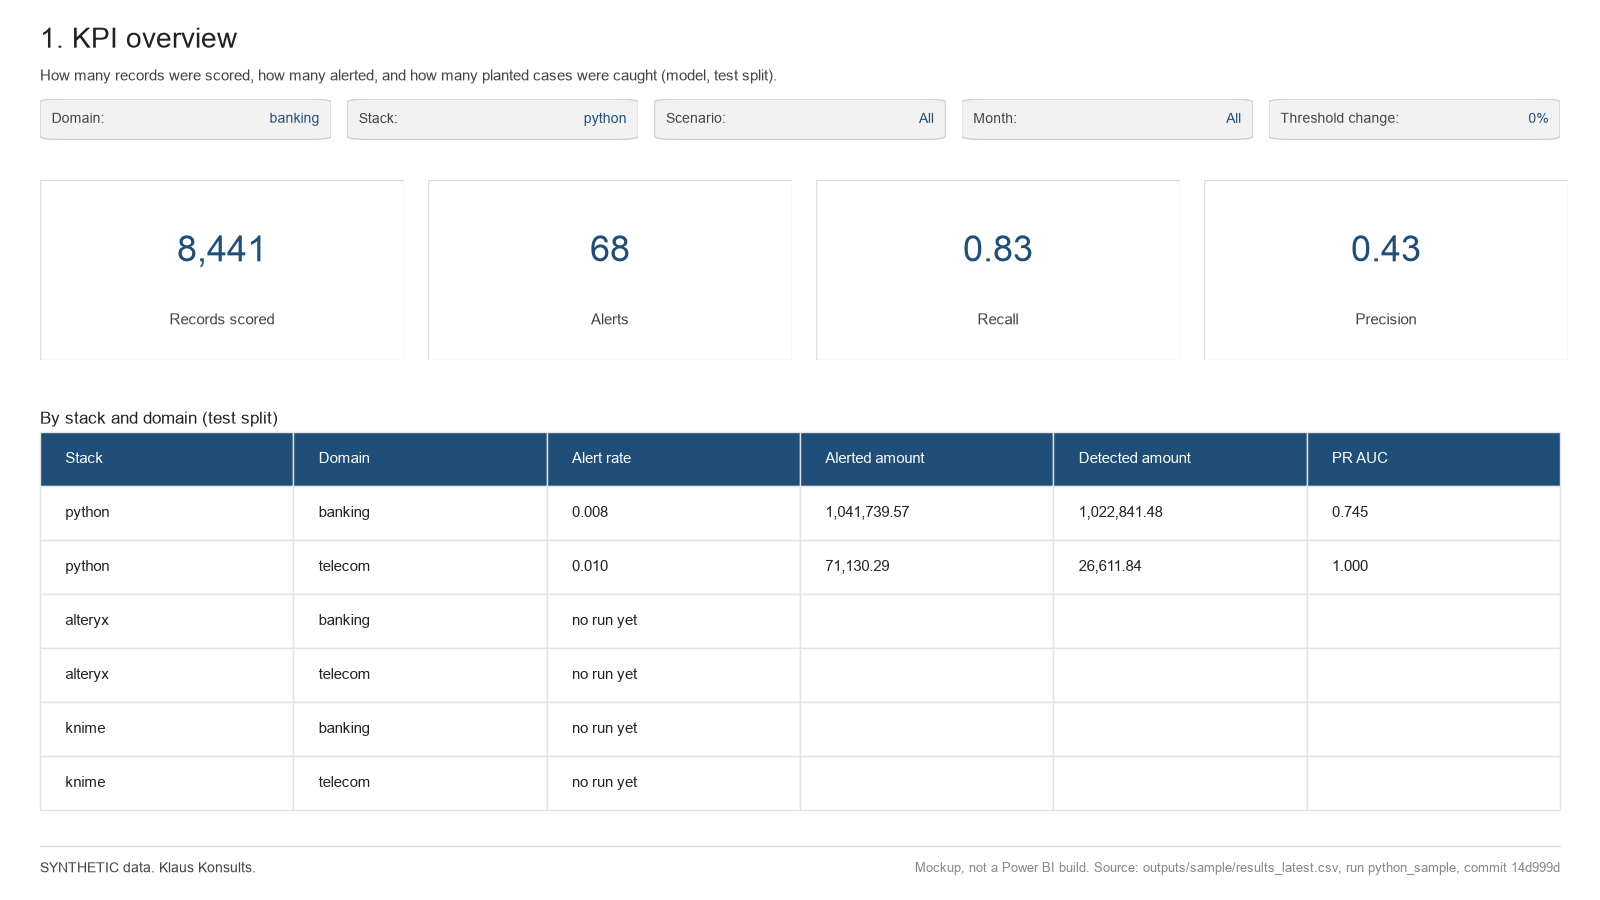
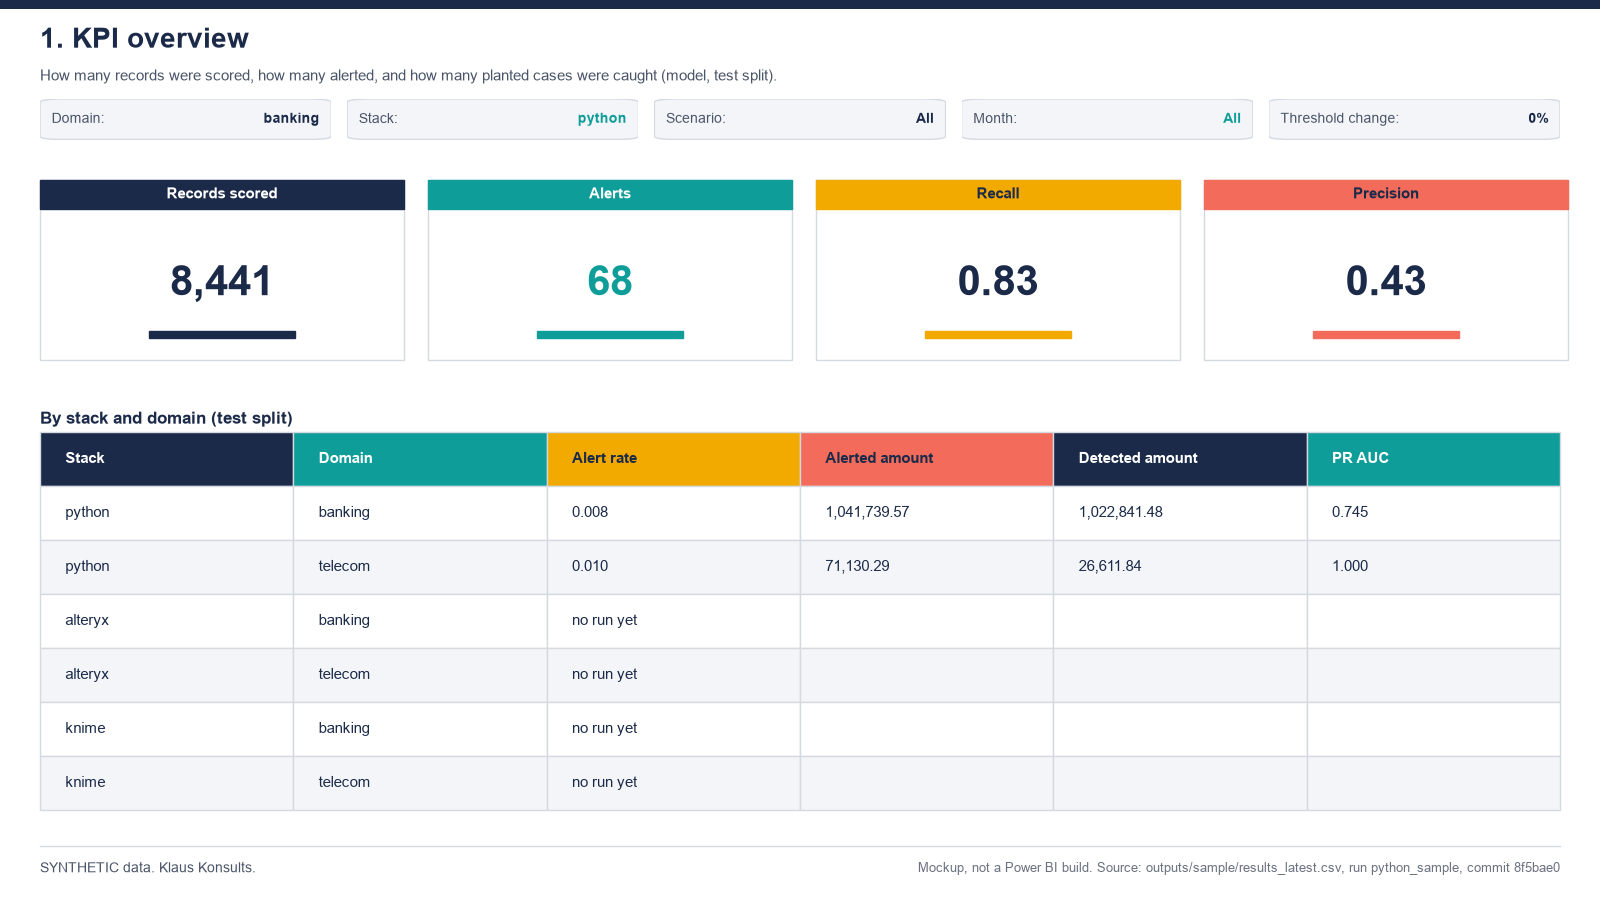
Theme D (navy, teal, amber, coral, Arial) on all 12 mockups, Power BI theme JSON, design doc; themes A to F archived (Klaus Konsults)

diff --git a/docs/powerbi_mockups/render_mockups.py b/docs/powerbi_mockups/render_mockups.py
@@ -23,12 +23,16 @@ ROOT = Path(__file__).resolve().parents[2]
 OUT = Path(__file__).resolve().parent
 SRC = ROOT / "outputs/sample/results_latest.csv"
 
-# Theme from docs/powerbi_design.md
-LIGHT = ["#9DC3E6", "#F4B183", "#A9D18E", "#D9D9D9", "#BDD7EE", "#FFE699", "#595959"]
-C = dict(data=["#1F4E79", "#C55A11", "#548235", "#7F7F7F", "#2E75B6", "#BF9000", "#A5A5A5", "#70AD47"],
-         fg="#222222", label="#444444", accent="#1F4E79", good="#548235", neutral="#BF9000", bad="#C00000",
-         center="#F2F2F2", bg="#FFFFFF")
-STACK = {"python": "#1F4E79", "alteryx": "#C55A11", "knime": "#548235"}
+# Theme D from docs/powerbi_design.md (chosen by Klaus Konsults): navy, teal, amber, coral on white, Arial
+NAVY, TEAL, AMBER, CORAL = "#1B2A49", "#0F9D9A", "#F2A900", "#F26B5B"
+PAL = [(NAVY, "#FFFFFF"), (TEAL, "#FFFFFF"), (AMBER, NAVY), (CORAL, NAVY)]  # (fill, text on it): amber and coral get navy text
+DARK = [NAVY, TEAL]
+LIGHT = ["#8B95AA", "#87CECC", "#F8D47F", "#F8B5AD", "#D5DAE1", "#C3E6E5", "#6B7280"]
+C = dict(data=[NAVY, TEAL, AMBER, CORAL, "#4A5D85", "#5CC2BF", "#B07B00", "#B8483B"],
+         fg=NAVY, label="#4A5568", accent=NAVY, good=TEAL, neutral=AMBER, bad="#C8473A",
+         center="#F3F5F8", bg="#FFFFFF", border="#D5DAE1", muted="#6B7280")
+STACK = {"python": NAVY, "alteryx": TEAL, "knime": CORAL}
+SLI = [0]
 
 FONT = "Arial" if any("Arial" == f.name for f in font_manager.fontManager.ttflist) else "Liberation Sans"
 plt.rcParams.update({"font.family": FONT, "font.size": 10, "text.color": C["fg"], "axes.edgecolor": "#BBBBBB",
@@ -48,21 +52,22 @@ T = lambda t: r[r["record_type"] == t]
 
 def page(num, title, note, slicers):
     fig = plt.figure(figsize=(16, 9), dpi=100, facecolor=C["bg"])
-    fig.text(0.025, 0.955, f"{num}. {title}", fontsize=20, color=C["fg"], va="center")
+    fig.add_artist(Rectangle((0, 0.99), 1, 0.01, transform=fig.transFigure, fc=NAVY, ec="none"))
+    fig.text(0.025, 0.955, f"{num}. {title}", fontsize=20, fontweight="bold", color=C["fg"], va="center")
     fig.text(0.025, 0.915, note, fontsize=11, color=C["label"], va="center")
     x = 0.025
     w = (0.95 - 0.01 * 4) / 5
     for name, val in slicers:
         ax = fig.add_axes([x, 0.845, w, 0.045]); ax.axis("off")
         ax.add_patch(FancyBboxPatch((0, 0), 1, 1, boxstyle="round,pad=0,rounding_size=0.08",
-                                    fc=C["center"], ec="#D0D0D0", transform=ax.transAxes))
+                                    fc=C["center"], ec=C["border"], transform=ax.transAxes))
         ax.text(0.04, 0.5, f"{name}:", fontsize=10, color=C["label"], va="center", transform=ax.transAxes)
-        ax.text(0.96, 0.5, val, fontsize=10, color=C["accent"], va="center", ha="right", transform=ax.transAxes)
-        x += w + 0.01
-    fig.add_artist(plt.Line2D([0.025, 0.975], [0.06, 0.06], color="#DDDDDD", lw=1))
+        ax.text(0.96, 0.5, val, fontsize=10, fontweight="bold", color=DARK[SLI[0] % len(DARK)], va="center", ha="right", transform=ax.transAxes)
+        x += w + 0.01; SLI[0] += 1
+    fig.add_artist(plt.Line2D([0.025, 0.975], [0.06, 0.06], color=C["border"], lw=1))
     fig.text(0.025, 0.035, "SYNTHETIC data. Klaus Konsults.", fontsize=10, color=C["label"], va="center")
     fig.text(0.975, 0.035, f"Mockup, not a Power BI build. Source: outputs/sample/results_latest.csv, run {RUN}, commit {COMMIT}",
-             fontsize=9, color="#888888", va="center", ha="right")
+             fontsize=9, color=C["muted"], va="center", ha="right")
     return fig
 
 
@@ -70,24 +75,30 @@ def slic(domain="banking", stack="python", scen="All", month="All", thr="0%"):
     return [("Domain", domain), ("Stack", stack), ("Scenario", scen), ("Month", month), ("Threshold change", thr)]
 
 
-def card(fig, rect, label, value):
+def card(fig, rect, label, value, i=[0]):
+    """Each KPI card gets its own palette colour: a coloured band with the label, the value below it."""
+    col, tc = PAL[i[0] % len(PAL)]; i[0] += 1
     ax = fig.add_axes(rect); ax.axis("off")
-    ax.add_patch(Rectangle((0, 0), 1, 1, fc=C["bg"], ec="#DDDDDD", transform=ax.transAxes))
-    ax.text(0.5, 0.6, value, fontsize=26, color=C["accent"], ha="center", va="center", transform=ax.transAxes)
-    ax.text(0.5, 0.22, label, fontsize=11, color=C["label"], ha="center", va="center", transform=ax.transAxes)
+    ax.add_patch(Rectangle((0, 0), 1, 1, fc="#FFFFFF", ec=C["border"], transform=ax.transAxes, clip_on=False))
+    ax.add_patch(Rectangle((0, 0.84), 1, 0.16, fc=col, ec=col, transform=ax.transAxes, clip_on=False))
+    ax.text(0.5, 0.92, label, fontsize=11, color=tc, ha="center", va="center", fontweight="bold", transform=ax.transAxes)
+    ax.text(0.5, 0.42, value, fontsize=30, color=col if tc == "#FFFFFF" else C["fg"], ha="center", va="center", fontweight="bold", transform=ax.transAxes)
+    ax.add_patch(Rectangle((0.3, 0.12), 0.4, 0.04, fc=col, ec=col, transform=ax.transAxes))
 
 
 def table(fig, rect, df, title=None, colw=None, fs=10, red=None):
     ax = fig.add_axes(rect); ax.axis("off")
     if title:
-        ax.set_title(title, loc="left", fontsize=12, pad=6)
+        ax.set_title(title, loc="left", fontsize=12, pad=6, fontweight="bold", color=NAVY)
     t = ax.table(cellText=df.values, colLabels=list(df.columns), loc="upper left", cellLoc="left", colLoc="left",
                  colWidths=colw, bbox=[0, 0, 1, 1])
     t.auto_set_font_size(False); t.set_fontsize(fs)
     for (i, j), c in t.get_celld().items():
-        c.set_edgecolor("#E3E3E3"); c.get_text().set_fontfamily(FONT)
-        if i == 0:
-            c.set_facecolor(C["accent"]); c.get_text().set_color("white")
+        c.set_edgecolor(C["border"]); c.get_text().set_fontfamily(FONT)
+        if i > 0:
+            c.set_facecolor(C["center"] if i % 2 == 0 else "#FFFFFF")
+        if i == 0:  # headers cycle through the palette
+            c.set_facecolor(PAL[j % len(PAL)][0]); c.get_text().set_color(PAL[j % len(PAL)][1]); c.get_text().set_fontweight("bold")
         elif red is not None and red(i - 1):
             c.get_text().set_color(C["bad"])
     return ax
@@ -142,7 +153,7 @@ xr = M[(M.model == MODEL) & (M.metric == "recall") & (M.domain == "banking") & (
 scen = sorted(rr.index)
 mat = np.array([[rr.get(s, np.nan), xr.get(s, np.nan), np.nan, np.nan] for s in scen])
 ax = fig.add_axes([0.25, 0.1, 0.62, 0.7])
-cm = matplotlib.colors.LinearSegmentedColormap.from_list("kk", ["#FFFFFF", C["accent"]])
+cm = matplotlib.colors.LinearSegmentedColormap.from_list("kk", ["#FFFFFF", TEAL, NAVY])
 ax.imshow(np.nan_to_num(mat, nan=0), cmap=cm, vmin=0, vmax=1, aspect="auto")
 for i in range(len(scen)):
     for j in range(4):
@@ -216,7 +227,7 @@ if len(eb):
         G.add_edge(e.source_id, e.target_id, w=e.edge_weight)
     pos = nx.spring_layout(G, seed=42, k=0.35)
     ws = np.array([G[u][v]["w"] for u, v in G.edges()])
-    nx.draw_networkx_edges(G, pos, ax=ax, width=0.5 + 3 * ws / ws.max(), edge_color="#9DB3C9", arrows=False)
+    nx.draw_networkx_edges(G, pos, ax=ax, width=0.5 + 3 * ws / ws.max(), edge_color="#87CECC", arrows=False)
     src = {u for u, _ in G.edges()}
     nx.draw_networkx_nodes(G, pos, ax=ax, node_size=28, node_color=[C["accent"] if n in src else C["data"][3] for n in G.nodes()])
     ax.set_title(f"Banking account network: {len(eb)} edges from the results file (sending accounts in blue)", fontsize=12)

diff --git a/docs/powerbi_design.md b/docs/powerbi_design.md
@@ -180,40 +180,60 @@ Pages 10 and 11 ignore the scenario slicer, because DQ and runtime rows have no 
 
 ## Theme
 
-Plain English and calm: Arial throughout, sentence case titles, dark text on white, one accent colour per stack so the three tools read the same on every page.
+Theme D, chosen by Klaus Konsults: navy #1B2A49, teal #0F9D9A, amber #F2A900 and coral #F26B5B on a white background, Arial throughout, sentence case titles. The theme file to import in Power BI Desktop (View, Themes, Browse for themes) is powerbi/klaus_konsults_theme_d.json:
 
 ```json
 {
-  "name": "Klaus Konsults Plain",
-  "dataColors": ["#1F4E79", "#C55A11", "#548235", "#7F7F7F", "#2E75B6", "#BF9000", "#A5A5A5", "#70AD47"],
+  "name": "Klaus Konsults Theme D",
+  "dataColors": ["#1B2A49", "#0F9D9A", "#F2A900", "#F26B5B", "#4A5D85", "#5CC2BF", "#B07B00", "#B8483B"],
   "background": "#FFFFFF",
-  "foreground": "#222222",
-  "tableAccent": "#1F4E79",
-  "good": "#548235",
-  "neutral": "#BF9000",
-  "bad": "#C00000",
-  "maximum": "#1F4E79",
-  "center": "#F2F2F2",
+  "foreground": "#1B2A49",
+  "tableAccent": "#1B2A49",
+  "good": "#0F9D9A",
+  "neutral": "#F2A900",
+  "bad": "#C8473A",
+  "maximum": "#1B2A49",
+  "center": "#0F9D9A",
   "minimum": "#FFFFFF",
   "textClasses": {
-    "title": { "fontFace": "Arial", "fontSize": 14, "color": "#222222" },
-    "header": { "fontFace": "Arial", "fontSize": 12, "color": "#222222" },
-    "label": { "fontFace": "Arial", "fontSize": 10, "color": "#444444" },
-    "callout": { "fontFace": "Arial", "fontSize": 24, "color": "#1F4E79" }
+    "title": { "fontFace": "Arial", "fontSize": 14, "color": "#1B2A49" },
+    "header": { "fontFace": "Arial", "fontSize": 12, "color": "#1B2A49" },
+    "label": { "fontFace": "Arial", "fontSize": 10, "color": "#4A5568" },
+    "callout": { "fontFace": "Arial", "fontSize": 24, "color": "#1B2A49" }
   },
   "visualStyles": {
     "*": {
       "*": {
-        "title": [{ "fontFamily": "Arial", "fontSize": 12, "show": true }],
+        "title": [{ "fontFamily": "Arial", "fontSize": 12, "fontColor": { "solid": { "color": "#1B2A49" } }, "bold": true, "show": true }],
         "background": [{ "color": { "solid": { "color": "#FFFFFF" } } }],
-        "border": [{ "show": false }]
+        "border": [{ "show": true, "color": { "solid": { "color": "#D5DAE1" } } }]
+      }
+    },
+    "tableEx": {
+      "*": {
+        "columnHeaders": [{ "fontFamily": "Arial", "bold": true, "fontColor": { "solid": { "color": "#FFFFFF" } }, "backColor": { "solid": { "color": "#1B2A49" } } }],
+        "values": [{ "fontFamily": "Arial", "backColorPrimary": { "solid": { "color": "#FFFFFF" } }, "backColorSecondary": { "solid": { "color": "#F3F5F8" } } }]
+      }
+    },
+    "card": {
+      "*": {
+        "labels": [{ "fontFamily": "Arial", "bold": true, "color": { "solid": { "color": "#1B2A49" } } }]
       }
     }
   }
 }
 ```
 
-Stack colours: Python #1F4E79, Alteryx #C55A11, KNIME #548235. Every page has a one line plain English note under the title saying what the page answers, and a footer reading "SYNTHETIC data. Klaus Konsults."
+Multi colour rules (as in the mockups):
+1. Each KPI card on a page gets its own palette colour in order navy, teal, amber, coral: a coloured band holding the label, and the value below it.
+2. Table and matrix headers cycle through the palette column by column. Body rows are zebra striped white and #F3F5F8.
+3. Text on navy or teal is white; text on amber or coral is dark navy #1B2A49, for contrast.
+4. Slicer values alternate navy and teal. Page titles are bold navy with a thin navy bar at the top of the page.
+5. Stack colours: Python navy, Alteryx teal, KNIME coral.
+
+Every page has a one line plain English note under the title saying what the page answers, and a footer reading "SYNTHETIC data. Klaus Konsults."
+
+The six candidate themes A to F are kept as an archive in docs/powerbi_mockups/theme_options/ (theme_A.png to theme_F.png). Theme D was chosen.
 
 ## Pages
 

diff --git a/powerbi/README.md b/powerbi/README.md
@@ -1,3 +1,6 @@
 # Power BI
 
 Planned only. Nothing is built here yet. When details arrive, Power BI will rebuild the same 12 charts as Python (docs/charts.md), reading the same shared results files (docs/output_schema.md).
+
+
+Theme: klaus_konsults_theme_d.json (Theme D, chosen by Klaus Konsults). See docs/powerbi_design.md.
